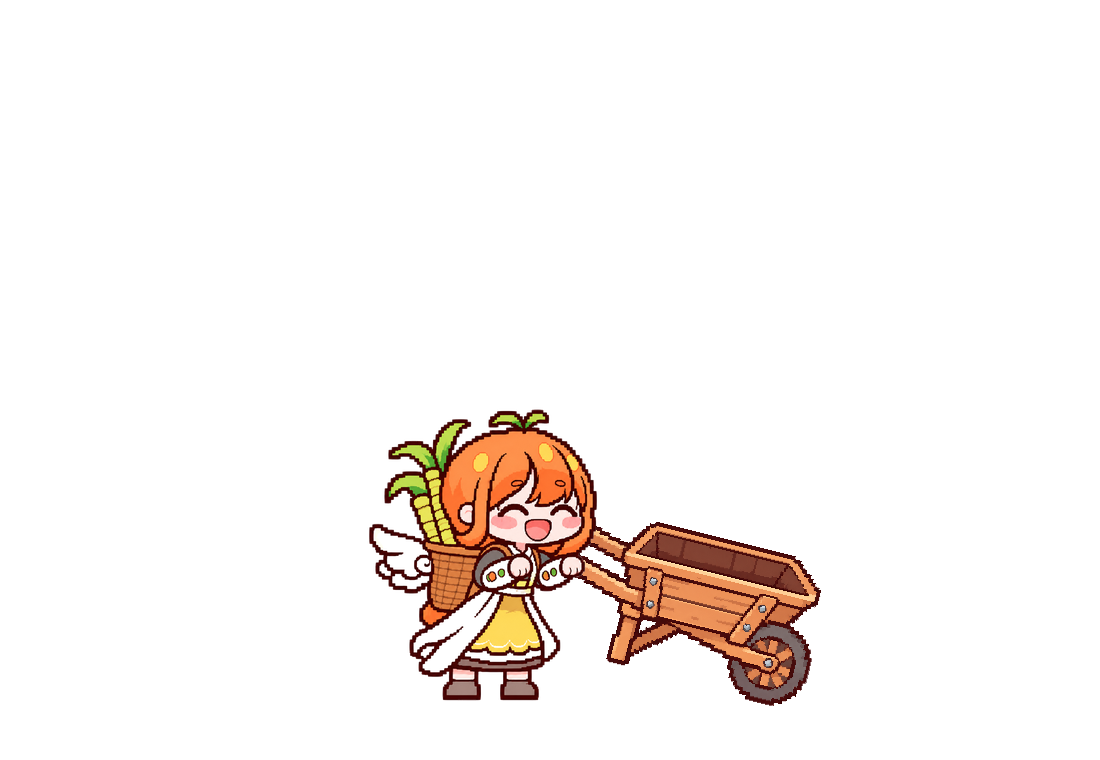
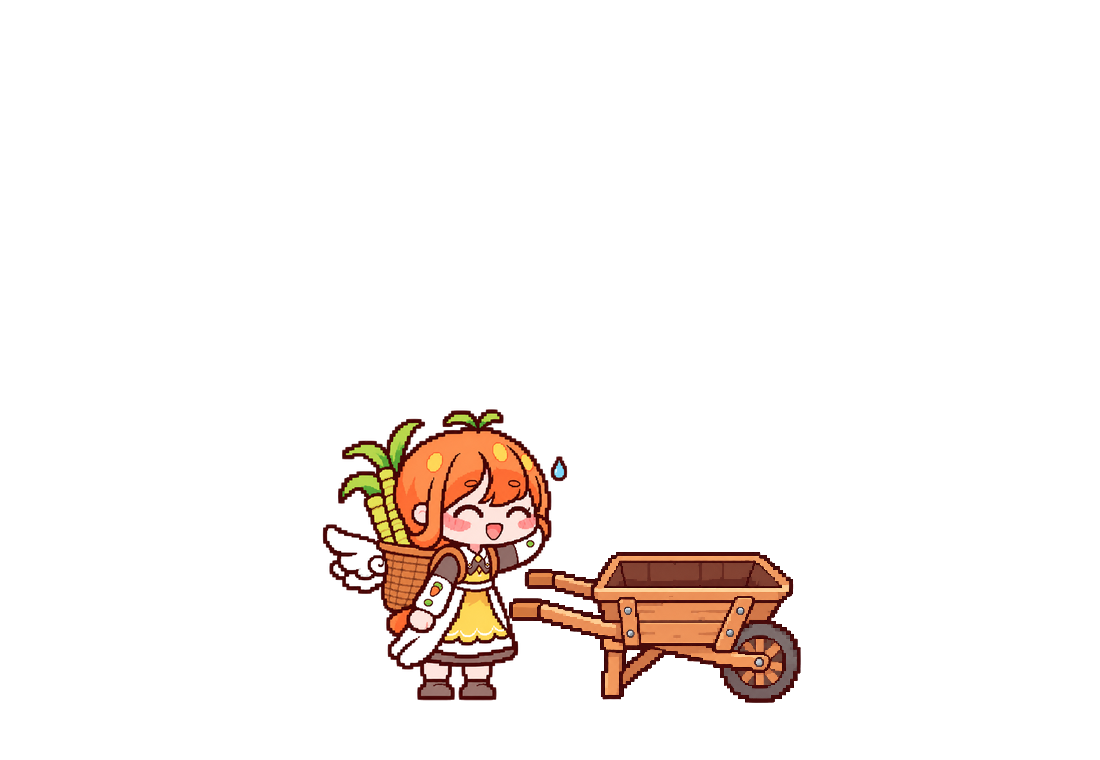
수레 비우기를 '달려가다 턱에 걸려 쏟기'로 교체, 웹은 앱에 든 모션만
- 새 자세 3장(휘청·허우적·머쓱웃음), 스탠딩 기준 GPT 편집
- dump_compose: 부딪힘→끌려 휘청→놓치고 허우적(수레 혼자 엎어져 짐 날아감)→균형→웃기→다시 잡기, 8프레임
- 화면 끝까지는 빠르게 달려감(속도 2.2배, 밀기 1.7배)
- 웹 미리보기: 앱 모션만 남기고 달려가기 포함

Changed region(s): [[0.2782, 0.5145, 0.7418, 0.9382]]

diff --git a/tools/build_web.py b/tools/build_web.py
@@ -20,61 +20,47 @@ DROP = {}
 SCALE = {"fall_0": 1.0, "fall_1": 1.0, "fall_2": 1.0, "m05_harvest": 0.92, "m05b_harvest": 0.89, "k05_harvest": 0.97, "h01_notice": 0.98, "h03_popout": 0.85, "i02a_rub": 1.0, "i02_rub": 1.0}
 
 # 모션 = (이름, 설명, [(파일, 보여줄 시간 ms, 바닥 맞춤 여부)])
-MOTIONS = [
-    ("start", "앱 시작 · 땅에서 쑤욱", [
-        ("e00_sprout", 80, True, "scaleY(0.3)"), ("e00_sprout", 90, True, "scaleY(1.15)"),
-        ("e00_sprout", 80, True, "scaleY(0.92)"), ("e00_sprout", 700, True),
-        ("e01_cat", 90, True, "scaleY(0.25)"), ("e01_cat", 110, True, "scaleY(1.22)"),
-        ("e01_cat", 100, True, "scaleY(0.86)"), ("e01_cat", 90, True, "scaleY(1.07)"),
-        ("e01_cat", 80, True, "scaleY(0.97)"), ("e01_cat", 300, True),
-        ("e01_cat_L", 82, True), ("e01_cat", 62, True), ("e01_cat_R", 82, True), ("e01_cat", 62, True),
-        ("e01_cat_L", 82, True), ("e01_cat", 62, True), ("e01_cat_R", 82, True), ("e01_cat", 200, True),
-        ("e01_cat_in", 220, True), ("e02_blink", 140, True),
-        ("e03_hands", 300, True), ("e04_knee", 280, True), ("e05_rise", 240, True),
-        ("master", 1600, True)]),
-    ("idle", "대기 · 눈 깜빡임", [("master", 1600, True), ("k01_blink", 160, True)]),
-    ("snack", "사탕수수 한입 (대기 중 무작위)", [
-        ("master", 500, True), ("m03a_snack", 160, True), ("m03_snack", 220, True), ("m03b_snack", 220, True),
-        ("k03_snack", 220, True), ("k03b_chew", 180, True), ("k03_snack", 180, True), ("k03b_chew", 180, True),
-        ("k03_snack", 180, True), ("k03b_chew", 300, True), ("m03b_snack", 200, True), ("m03_snack", 200, True),
-        ("m03a_snack", 160, True)]),
-    ("pull", "볼 당김 (길게 눌러 끌기)", [
-        ("master", 400, True), ("p2_open", 160, True), ("p2_lift", 140, True),
-        ("p2_flailA", 130, True), ("p2_flailM", 100, True), ("p2_flailB", 130, True), ("p2_flailM", 100, True),
-        ("p2_flailA", 130, True), ("p2_flailM", 100, True), ("p2_flailB", 130, True), ("p2_flailM", 100, True),
-        ("p2_flailA", 130, True), ("p2_lift", 140, True), ("p2_open", 160, True)]),
-    ("water", "물뿌리개로 물 주기 (대기 중 무작위)", [
-        ("master", 500, True), ("i01a_water", 260, True), ("i01_water", 300, True), ("i01b_water", 300, True),
-        ("i01_water", 300, True), ("i01b_water", 300, True), ("i01a_water", 260, True)]),
-    ("rub", "사탕수수 볼 비비기 (대기 중 무작위)", [
-        ("master", 500, True), ("i02a_rub", 300, True), ("i03_lick", 200, True), ("i03b_lick", 200, True), ("i03_lick", 200, True), ("i03b_lick", 200, True), ("i03_lick", 200, True), ("i03b_lick", 300, True), ("i02_rub", 900, True), ("i02a_rub", 300, True)]),
-    ("harvest", "오늘의 수확 (한 번 터치)", [
-        ("master", 500, True), ("h01_notice", 220, True), ("m05_harvest", 240, True), ("m05b_harvest", 300, True),
-        ("h03_popout", 220, True), ("k05_harvest", 1400, True)]),
-    ("invite", "정원 초대 (두 번 터치 메뉴)", [
-        ("master", 500, True), ("m06_invite", 160, True), ("m06b_invite", 160, True),
-        ("k06_invite", 1100, True), ("m06b_invite", 160, True), ("m06_invite", 160, True)]),
-    ("weed", "잡초 발견 → 손으로 뽑기", [
-        ("master", 500, True), ("wn_grab", 600, True), ("wn_mid", 160, True), ("wn_pull2", 180, True),
-        ("wn_mid", 140, True), ("wn_pull2", 180, True), ("wn_mid", 140, True), ("wn_pull2", 300, True),
-        ("wn_fall", 1200, True)]),
-    ("barrow", "잡초 여러 개 정리 (수레로 옮기기)", [
-        ("master", 500, True), ("b01_barrow", 1400, True)]),
-    ("delete_fall", "삭제 → 잡초 뽑고 엉덩방아", [
-        ("master", 400, True), ("wn_lower1", 160, True), ("wn_lower2", 150, True), ("wn_grab_v2", 220, True),
-        ("wn_tug", 260, True), ("wn_grab_v2", 160, True), ("wn_tug", 260, True), ("wn_grab_v2", 160, True), ("wn_tug", 300, True),
-        ("wn_pop", 120, True), ("wn_pop", 80, True, "translateY(-5%)"),
-        ("fall_0", 90, True, "translateY(-13%)"), ("fall_0", 90, True, "translateY(-16%)"), ("fall_0", 80, True, "translateY(-9%)"),
-        ("fall_1", 70, True, "scale(1.06,0.92)"), ("fall_1", 450, True), ("fall_2", 900, True),
-        ("e05_rise", 220, True), ("master", 400, True)]),
-    ("exit", "퇴장 (앱 끌 때)", [
-        ("master", 400, True), ("e05_rise", 200, True), ("e04_knee", 200, True), ("e03_hands", 200, True),
-        ("e01_cat_in", 200, True), ("e02_blink", 120, True), ("e01_cat", 160, True),
-        ("e01_cat", 70, True, "scaleY(1.12)"), ("e01_cat", 70, True, "scaleY(0.6)"), ("e01_cat", 70, True, "scaleY(0.25)"),
-        ("e00_sprout", 300, True), ("e00_sprout", 70, True, "scaleY(1.15)"), ("e00_sprout", 70, True, "scaleY(0.4)"),
-        ("e00_sprout", 60, True, "scaleY(0.05)")]),
-]
+# 앱(Stage.java)에 실제로 들어간 모션만. "프레임@0.3" = 세로 배율, "프레임^0.1" = 키의 10%만큼 위로
+def C(*a):
+    out = []
+    for i in range(0, len(a), 2):
+        n, ms = a[i], a[i + 1]; tf = ""
+        if "^" in n: n, d = n.split("^"); tf = f"translateY(-{float(d) * 85:.1f}%)"
+        if "@" in n: n, sy = n.split("@"); tf = f"scaleY({sy})"
+        out.append((n, ms, True, tf) if tf else (n, ms, True))
+    return out
 
+
+ENTER = C("e00_sprout@0.3", 80, "e00_sprout@1.15", 90, "e00_sprout@0.92", 80, "e00_sprout", 700,
+          "e01_cat@0.25", 90, "e01_cat@1.22", 110, "e01_cat@0.86", 100, "e01_cat@1.07", 90, "e01_cat@0.97", 80, "e01_cat", 300,
+          "e01_cat_L", 82, "e01_cat", 62, "e01_cat_R", 82, "e01_cat", 62, "e01_cat_L", 82, "e01_cat", 62, "e01_cat_R", 82, "e01_cat", 200,
+          "e01_cat_in", 220, "e02_blink", 140, "e03_hands", 300, "e04_knee", 280, "e05_rise", 240, "master", 320)
+EXIT = C("master", 300, "e05_rise", 200, "e04_knee", 200, "e03_hands", 200, "e01_cat_in", 200, "e02_blink", 120,
+         "e01_cat", 160, "e01_cat@1.12", 70, "e01_cat@0.6", 70, "e01_cat@0.25", 70, "e00_sprout", 300, "e00_sprout@1.15", 70,
+         "e00_sprout@0.4", 70, "e00_sprout@0.05", 60)
+WALK = C("walk_lift_left", 150, "walk_pass_left_to_right", 110, "walk_lift_right", 150, "walk_pass_right_to_left", 110)
+CLAP = C("clap_in_v2", 137, "clap_hit_v2", 114, "clap_out_v2", 91, "clap_hit_v2", 114, "clap_out_v2", 91,
+         "clap_hit_v2", 114, "clap_out_v2", 143, "master", 171)
+WATER = C("i01a_water", 173, "i01_water", 200, "i01b_water", 200, "i01_water", 200, "i01b_water", 200,
+          "i01_water", 200, "i01b_water", 200, "i01a_water", 173, "master", 200)
+PULL = C("master", 300, "pull_right_mid", 69, "pull_right_mid2", 80, "pull_right_peak", 91) +        C("pull_right_struggle_a", 86, "pull_right_struggle_b", 86) * 4 + C("pull_right_peak", 80, "pull_right_mid", 69, "master", 114)
+HARVEST = C("master", 200, "h01_notice", 220, "m05_harvest", 240, "m05b_harvest_v2", 300, "h03_popout", 220, "k05_harvest", 1400, "master", 300)
+INVITE = C("master", 150, "m06_invite", 160, "m06b_invite", 160, "k06_invite", 1100, "m06b_invite", 160, "m06_invite", 160, "master", 200)
+DELETE = C("master", 300, "wn_lower1", 160, "wn_lower2", 150, "wn_grab_v2", 220) + C("wn_grab_v2", 200, "wn_tug", 260) * 3 +          C("wn_pop", 120, "wn_pop^0.05", 80, "fall_0^0.13", 90, "fall_0^0.16", 90, "fall_0^0.09", 80,
+           "fall_1@0.92", 70, "fall_1", 450, "fall_2", 900, "e05_rise", 220, "master", 200)
+
+MOTIONS = [
+    ("start", "앱 시작 · 땅에서 솟아오름", ENTER),
+    ("idle", "대기 · 눈 깜빡임", C("master", 1600, "k01_blink", 160)),
+    ("walk", "걷기 (홈 화면 산책)", WALK * 3),
+    ("clap", "박수 (산책 중 무작위)", CLAP),
+    ("water", "물주기 (산책 중 무작위)", WATER),
+    ("harvest", "한 번 톡 → 오늘의 수확", HARVEST),
+    ("invite", "텃밭 열기 → 정원 초대", INVITE),
+    ("pull", "꾹 눌러 끌기 → 볼 당김", PULL),
+    ("delete_fall", "앱 하나 삭제 → 잡초 뽑고 엉덩방아", DELETE),
+    ("exit", "종료 → 땅으로 쏙", EXIT),
+]
 
 def load(name):
     if name == "master":

diff --git a/tools/dump_compose.py b/tools/dump_compose.py
@@ -38,7 +38,7 @@ def rotated_barrow(bar, s, tilt):
     return big, (pad + ax, pad + ay), b
 
 
-def compose(pose, tilt, wheel_x=None, char_h=320):
+def compose(pose, tilt, wheel_x=None, char_h=320, free_x=None):
     """한 장면: 바퀴는 wheel_x(바닥)에 고정, 캐릭터는 주먹이 손잡이 끝에 오도록 놓는다.
     반환: RGBA, 캐릭터 발 위치, 짐칸 가운데(바닥쪽) 위치, 바퀴 x."""
     meta = json.load(open(os.path.join(FR, "meta.json")))
@@ -58,7 +58,7 @@ def compose(pose, tilt, wheel_x=None, char_h=320):
     W, H = 1100, 760; ground = 700
     if wheel_x is None: wheel_x = 760
     hx, hy = wheel_x + rgx, ground + rgy           # 손잡이 끝 = 주먹이 있어야 할 곳
-    foot_x = hx - (h[0] - fx)                        # 캐릭터를 옮겨 주먹을 거기에
+    foot_x = hx - (h[0] - fx) if free_x is None else free_x  # 잡고 있으면 주먹을 손잡이에, 놓쳤으면 정한 자리에
     foot_y = ground
     c = Image.new("RGBA", (W, H), (0, 0, 0, 0))
     c.alpha_composite(big, (round(wheel_x - pax), round(ground - pay)))
@@ -66,13 +66,16 @@ def compose(pose, tilt, wheel_x=None, char_h=320):
     return c, (foot_x, foot_y), (wheel_x + bx, ground + by), wheel_x
 
 
-SEQ = [("push_a", 0, 200), ("dump_p1", 16, 200), ("dump_p2", 32, 200), ("dump_p3", 48, 380),
-       ("dump_l1", 30, 180), ("dump_l2", 14, 170), ("push_a", 0, 160), ("dump_p4", 0, 420), ("bw2_regrip", 0, 140), ("push_a", 0, 400)]
+# 달려가다 턱에 걸려 쏟기: 부딪힘 → 손잡이에 끌려 휘청 → 놓치고 허우적(수레 혼자 앞으로 엎어져 짐이 날아감, 3번 칸)
+# → 균형 잡기(수레가 되돌아옴) → 머쓱하게 웃기 → 다시 잡기. (자세, 기울기, ms, 놓쳤을 때 발 위치: 처음 잡은 자리 기준 +px)
+SEQ = [("push_a", 0, 110, None), ("crash_stumble", 14, 140, None), ("crash_windmill", 42, 120, 34),
+       ("crash_windmill", 72, 380, 46), ("crash_stumble", 26, 170, 40), ("crash_laugh", 0, 760, 12), ("bw2_regrip", 0, 150, None), ("push_a", 0, 380, None)]
 
 if __name__ == "__main__":
     meta = []
-    for i, (pose, t, ms) in enumerate(SEQ):
-        im, foot, binp, wx = compose(pose, t)
+    base = compose("push_a", 0)[1][0]
+    for i, (pose, t, ms, dx) in enumerate(SEQ):
+        im, foot, binp, wx = compose(pose, t, free_x=None if dx is None else base + dx)
         im.save(os.path.join(FR, f"dump_{i}.png"))
         meta.append({"ms": ms, "tilt": t, "foot": [round(foot[0], 1), foot[1]], "bin": [round(binp[0], 1), round(binp[1], 1)]})
     json.dump({"w": im.width, "h": im.height, "charH": 320, "frames": meta}, open(os.path.join(FR, "dump.json"), "w"), indent=1)

diff --git a/tools/web_extra.py b/tools/web_extra.py
@@ -120,6 +120,9 @@ def build(out_dir, stamp):
     dm = json.load(open(os.path.join(FR, "dump.json")))
     kk = CHAR_H / dm["charH"]
     flies = []; stack = list(items); n = 0
+    x0 = 60 - dm["frames"][0]["foot"][0] * kk + 200 + dm["frames"][0]["foot"][0] * kk  # 부딪히는 자리(발)
+    for i in range(7):  # 화면 끝까지 달려가기(평소보다 빠른 밀기)
+        put(f"x_dump_{n}", sc.render(("push_a", "push_pass_a", "push_b", "push_pass_b")[i % 4], x0 - 34 * (7 - i), Y, 0, stack), 75); n += 1
     for i, f in enumerate(dm["frames"]):
         d = load(os.path.join(FR, f"dump_{i}.png")); d = d.resize((round(d.width * kk), round(d.height * kk)), Image.NEAREST)
         ox = 60 - dm["frames"][0]["foot"][0] * kk + 200; oy = Y - dm["ground"] * kk if "ground" in dm else Y - f["foot"][1] * kk
@@ -138,7 +141,7 @@ def build(out_dir, stamp):
                 dt = 0.08; fl[4] += 3.2 * dt; fl[1] += fl[3] * CHAR_H * dt; fl[2] += fl[4] * CHAR_H * dt; fl[6] += fl[5] * dt
                 sc.item(c, fl[0], fl[1], fl[2], fl[6])
             put(f"x_dump_{n}", c.convert("RGB"), round(f["ms"] / steps)); n += 1
-    motions.append({"id": "barrow_dump", "title": "삭제 끝 → 화면 끝에서 수레 엎기", "frames": out}); out = []
+    motions.append({"id": "barrow_dump", "title": "삭제 끝 → 달려가다 턱에 걸려 쏟기", "frames": out}); out = []
 
     # 3) 햇님이
     hat = [load(os.path.join(A, "garden", f"hatnim_{i}.png")) for i in range(6)]

diff --git a/android/app/src/main/java/com/oddfactory/carrot/Stage.java b/android/app/src/main/java/com/oddfactory/carrot/Stage.java
@@ -168,7 +168,8 @@ final class Stage extends View {
         switch (bs) {
             case WALK: {
                 float dx = tx - x, dy = ty - y, dd = (float) Math.hypot(dx, dy);
-                float spd = charH() * (dd > charH() * 2.5f ? 1.8f : 1.0f);
+                boolean run = job != null && job.dump; // 버리러 갈 땐 화면 끝까지 달려간다(턱에 걸려 쏟기)
+                float spd = charH() * (run ? 2.2f : dd > charH() * 2.5f ? 1.8f : 1.0f);
                 if (dd > 1) faceRight = dx > 0 || (job != null && !job.dump) && dx >= 0;
                 if (dd <= spd * dt) {
                     x = tx; y = ty; bt0 = now;
@@ -244,7 +245,7 @@ final class Stage extends View {
     String barrowFrame(long now) {
         long t = now - bt0;
         switch (bs) {
-            case WALK: return PUSH.at(t, true);
+            case WALK: return PUSH.at(job != null && job.dump ? t * 17 / 10 : t, true);
             case PICK: return PICK.at(t, false);
             case DUMP: return DUMP.at(t, false);
             default: return "push_a";

diff --git a/tools/export_overlay.py b/tools/export_overlay.py
@@ -27,7 +27,7 @@ FRAMES = [
     "h01_notice", "m05_harvest", "m05b_harvest_v2", "h03_popout", "k05_harvest",
     "m06_invite", "m06b_invite", "k06_invite",
     "fall_0", "fall_1", "fall_2",
-    "push_a", "push_pass_a", "push_b", "push_pass_b", "bw2_toss", "bw2_regrip", "bw2_lift", "wn_tug", "wn_rise", "bw2_windup", "dump_p1", "dump_p2", "dump_p3", "dump_p4", "dump_l1", "dump_l2",
+    "push_a", "push_pass_a", "push_b", "push_pass_b", "bw2_toss", "bw2_regrip", "bw2_lift", "wn_tug", "wn_rise", "bw2_windup", "dump_p1", "dump_p2", "dump_p3", "dump_p4", "dump_l1", "dump_l2", "crash_stumble", "crash_windmill", "crash_laugh",
 ]
 
 
